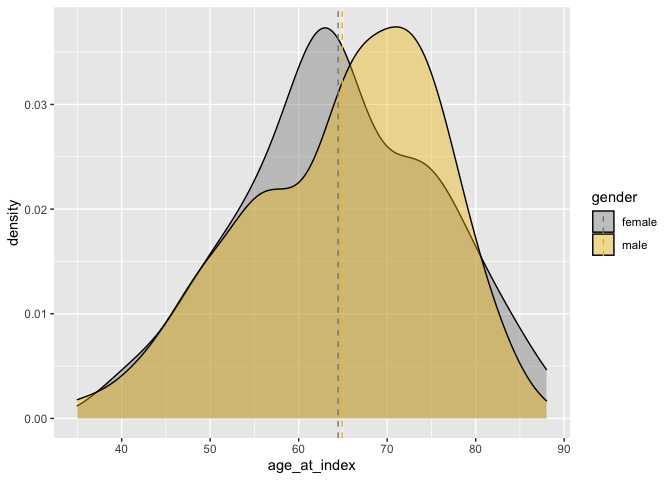
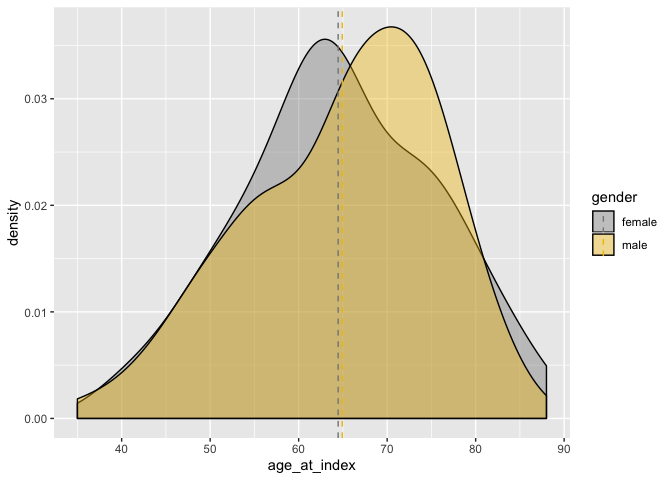
adding descriptions

diff --git a/src/code.md b/src/code.md
@@ -2,6 +2,7 @@ code
 ================
 
 ``` r
+knitr::opts_chunk$set(echo = TRUE)
 suppressPackageStartupMessages(library(tidyverse))
 suppressPackageStartupMessages(library(reshape2))
 suppressPackageStartupMessages(library(survival))
@@ -60,13 +61,31 @@ temp <- data.frame(cbind(as.character(cli$submitter_id), as.character(cli$vital_
 names(temp) <- c("submitter_id", "vital_status")
 ```
 
-# EDA:
+Exploratory Data Analysis:
 
-\#\#Age distribution across gender
+Aim: To visualize features and relationships of the covariates like age,
+gender, race, and pathological stages using density plots
 
-\#\#Age distribution across race
+Age distribution across gender
 
-## Gene Expression Visualization
+``` r
+mu <- cli1 %>% 
+  group_by(gender) %>%
+  summarise(grp.mean = mean(age_at_index))
+
+ggplot(cli1, aes(x = age_at_index))+ 
+  geom_density(aes(fill = gender), alpha = 0.4) +
+  geom_vline(aes(xintercept = grp.mean, color = gender),
+             data = mu, linetype = "dashed") +
+  scale_color_manual(values = c("#868686FF", "#EFC000FF"))+
+  scale_fill_manual(values = c("#868686FF", "#EFC000FF"))
+```
+
+![](code_files/figure-gfm/unnamed-chunk-2-1.png)<!-- -->
+
+Age distribution across race
+
+Gene Expression Visualization
 
 ``` r
 expressionMatrix <- tcga %>% rownames_to_column("gene") %>% as_tibble()
@@ -164,7 +183,12 @@ meta.with.imp.gene.final <- meta.with.imp.gene %>%
   select(-c("CTGF", "OLFML2B", "CTD-2033D15.2", "CYP1B1", "KCNE4"))
 ```
 
-# Lasso Selection
+Lasso Selection
+
+Aim: To further reduce the dimension of the feature space before
+performing a dichotomous classification (dead or alive) with least
+absolute shrinkage and selection operator (LASSO) with 3-fold cross
+validation
 
 ``` r
 meta.with.imp.gene.final <- na.omit(meta.with.imp.gene.final)
@@ -175,7 +199,10 @@ smp_size <- floor(0.75 * nrow(meta.with.imp.gene.final))
 set.seed(400)
 train_ind <- sample(seq_len(nrow(meta.with.imp.gene.final)), size = smp_size)
 
+#The algorithms were trained in a training set with sample size equaling to the floor value of #75% of the total sample size
 train <- meta.with.imp.gene.final[train_ind, ]
+
+#The algorithms were run on a validation set (the remaining 25% of the sample) to obtain AUC and #ROC
 test <- meta.with.imp.gene.final[-train_ind, ]
 
 yvar <- train$vital_status
@@ -247,7 +274,7 @@ plot(lasso.reg, xvar = "lambda", label = T)
 
 ![](code_files/figure-gfm/unnamed-chunk-5-2.png)<!-- -->
 
-# Classification of Vital Status
+Classification of Vital Status
 
 ``` r
 set.seed(400)
@@ -398,9 +425,9 @@ auc(ada.roc)
 
     ## Area under the curve: 0.8077
 
-# Classification of Gene Expressions
+Classification of Gene Expressions
 
-## Data set
+Data set
 
 ``` r
 # top 10 genes
@@ -408,8 +435,8 @@ selectGene <- tcga1 %>%
   select(c(submitter_id, important.genes$gene))
 
 temp1 <- as.data.frame(selectGene %>% 
-  melt(id = "submitter_id",
-       var = "gene"))
+                         melt(id = "submitter_id",
+                              var = "gene"))
 
 temp2 <- left_join(temp1, cli1) 
 ```
@@ -459,7 +486,7 @@ first <- tempp %>%
               values_from = "value")
 ```
 
-# PCA
+PCA
 
 ``` r
 res.pca1 <- prcomp(first[,162:171], scale = T)
@@ -493,7 +520,7 @@ fviz_pca_ind(res.pca1,
              legend.title = "8 ajcc pathologic stages",
              alpha.ind = 0.7,
              title = ""
-             )
+)
 ```
 
 ![](code_files/figure-gfm/unnamed-chunk-8-3.png)<!-- -->
@@ -507,12 +534,12 @@ fviz_pca_ind(res.pca1,
              legend.title = "vital status",
              alpha.ind = 0.7,
              title = ""
-             )
+)
 ```
 
 ![](code_files/figure-gfm/unnamed-chunk-8-4.png)<!-- -->
 
-# compare the alive and dead based on average top10 gene expresion
+Comparing alive and dead based on average top10 gene expresion
 
 ``` r
 first$count <- scale(rowMeans(first[,162:171]))
@@ -548,8 +575,8 @@ sample_to_choose <- sample(1:length(unique(first10$submitter_id)), size = 100)
 names_to_choose <- as.character(unique(first10$submitter_id)[sample_to_choose])
 
 temp10 <- first %>% 
-    filter(submitter_id %in% names_to_choose) %>% 
-    group_by(submitter_id) 
+  filter(submitter_id %in% names_to_choose) %>% 
+  group_by(submitter_id) 
 
 temp10 %>% 
   ggplot(aes(x = as.factor(submitter_id), y = count, color = vital_status)) + 
@@ -560,7 +587,7 @@ temp10 %>%
 
 ![](code_files/figure-gfm/unnamed-chunk-10-1.png)<!-- -->
 
-# Survival Analysis
+Survival Analysis
 
 \#\#Kalpan-Meier estimator We first use Kalpan-Meier plot to summarize
 the survival experience of the event-time porcess. `sur_time` variable
@@ -656,11 +683,11 @@ ggsurvplot(
   legend = "right",
   legend.title = "treatment levels",
   legend.labs = c("no treatment (Pharmaceutical group)",
-                                 "no treatment (Radiation group)",
-                                 "not recorded (Pharmaceutical group)",
-                                 "not recorded (Radiation group)",
-                                 "with treatment (Pharmaceutical group)",
-                                 "with treatment (Radiation group)")
+                  "no treatment (Radiation group)",
+                  "not recorded (Pharmaceutical group)",
+                  "not recorded (Radiation group)",
+                  "with treatment (Pharmaceutical group)",
+                  "with treatment (Radiation group)")
 ) 
 ```
 
@@ -766,11 +793,11 @@ ggforest(fit.coxph, data = sur_dat)
 
 ![](code_files/figure-gfm/unnamed-chunk-11-4.png)<!-- -->
 
-## Log rank test
+Log rank test
 
 ``` r
 survdiff(Surv(sur_time, vital_status) ~ treatment_or_therapy, 
-                   data = sur_dat)
+         data = sur_dat)
 ```
 
     ## Call:
